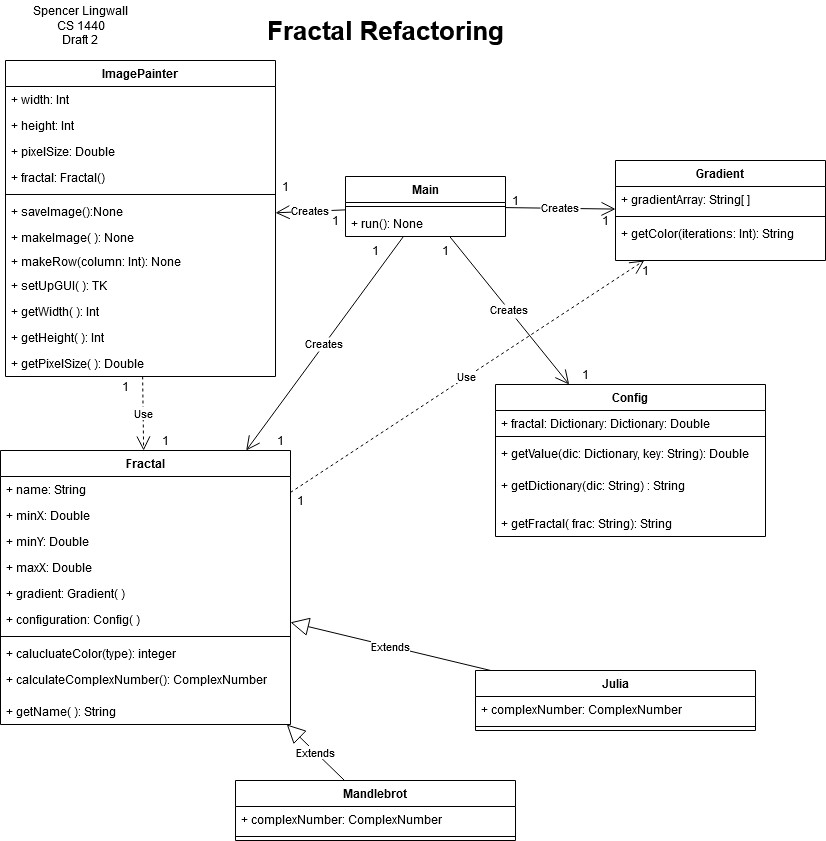
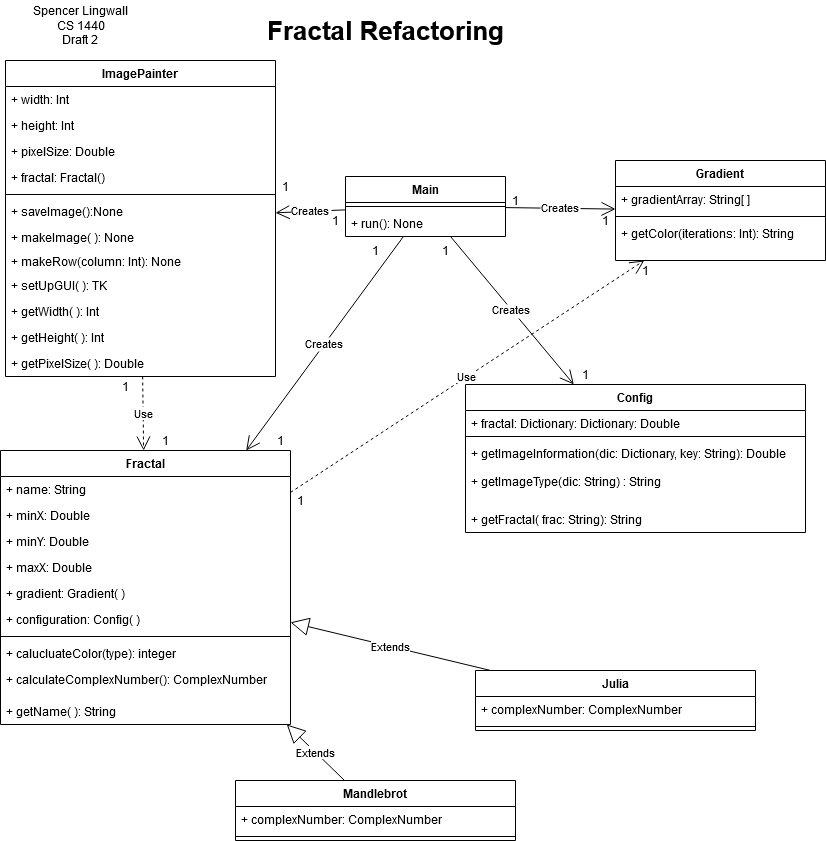
Added blank files class files and updated plan

diff --git a/doc/Plan.md b/doc/Plan.md
@@ -187,6 +187,43 @@ Class main():
 
 # 2.  Functional Examples
 
+Class ImagePainter:
+    setUpGUI:
+        create GUI
+        make image
+        make canvas and pack it to the GUI
+    save image
+        open a new file
+        write image to the file
+    makeimage
+        call makeRow
+    makeRow
+        call calculate color from the fractal object
+        make the row with the colors. 
+        update the row in the GUI
+    getWidth
+    GetHeight
+    getPixelSize
+    
+Class Fractal
+    calculateColor
+        will calculate the number of iterations needed.  
+        return that number
+    calculateComplexNumber
+        calculate the needed complex number
+        return it
+    getName()
+    
+Class Config
+    getImageInformation
+    getImage
+    getFractal
+    
+Class Gradient
+    getColor
+        
+        
+
 **Design a process for obtaining the output from the input.  Consider both *good*
 and *bad* inputs.  Find or create examples of both kinds of input.**
 
